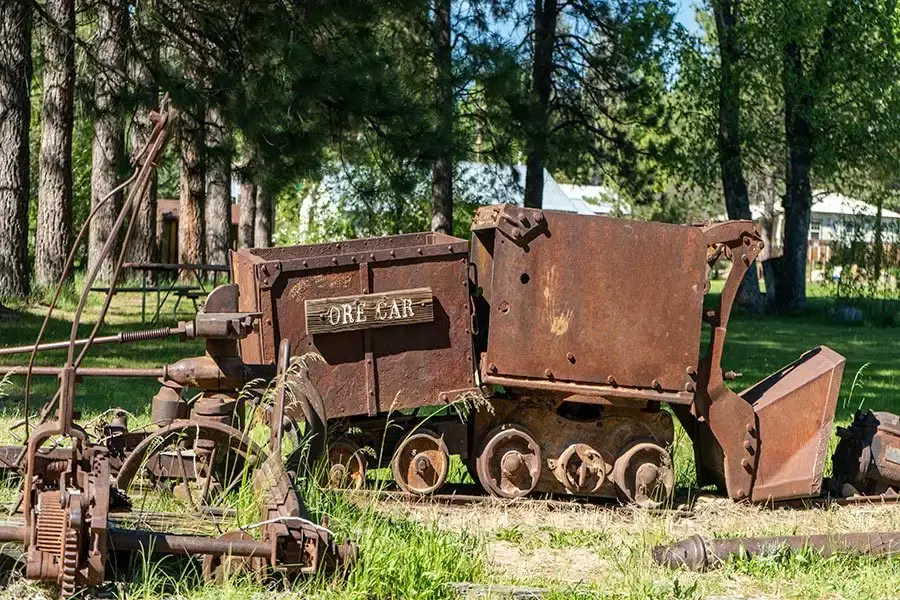
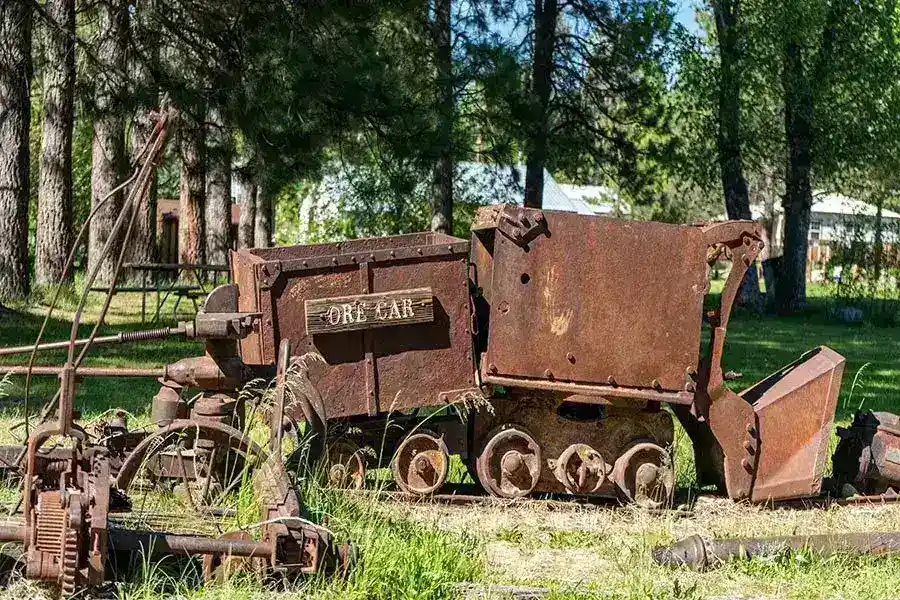
compressed images down significantly to be <500

diff --git a/chamber/discovery.html b/chamber/discovery.html
@@ -77,7 +77,7 @@
                 <picture class="discovery-img">
                     <source srcset="images/climate_500_544.webp" media="(max-width: 700px)">
                     <source srcset="images/climate_700_762.webp" media="(max-width: 910px)">
-                    <img src="images/climate.webp" alt="chart and table showing Idaho City climate information">
+                    <img src="images/climate_900_979.webp" alt="chart and table showing Idaho City climate information" loading="lazy">
                 </picture>
 
                 
@@ -101,37 +101,44 @@
             <picture class="discovery-img">
                 <source srcset="images/Miners-Exchange_500_333.webp" media="(max-width: 700px)">
                 <source srcset="images/Miners-Exchange_700_433.webp" media="(max-width: 910px)">
-                <img src="images/Miners-Exchange_900_600.webp" alt="Miners Exchange"  width="900" height="600">
+                <img src="images/Miners-Exchange_900_600.webp" alt="Miners Exchange"  width="900" height="600" loading="lazy">
+                <span>Miners Exchange</span>
             </picture>
             <picture class="discovery-img">
                 <source srcset="images/Ore-Car_500_333.webp" media="(max-width: 700px)">
                 <source srcset="images/Ore-Car_700_433.webp" media="(max-width: 910px)">
                 <img src="images/Ore-Car_900_600.webp" alt="Ore Car" width="900" height="600" loading="lazy">
+                <span>Ore Car for Mining</span>
             </picture>
             <picture class="discovery-img">
                 <source srcset="images/idaho-city-pioneer-cemetary_500_333.webp" media="(max-width: 700px)">
                 <source srcset="images/idaho-city-pioneer-cemetary_700_433.webp" media="(max-width: 910px)">
                 <img src="images/idaho-city-pioneer-cemetary_900_600.webp" alt="Pioneer Cemetery" width="900" height="600" loading="lazy">
+                <span>Pioneer Cemetery</span>
             </picture>
             <picture class="discovery-img">
                 <source srcset="images/merc-pic-2_500_333.webp" media="(max-width: 700px)">
                 <source srcset="images/merc-pic-2_700_433.webp" media="(max-width: 910px)">
                 <img src="images/merc-pic-2_900_600.webp" alt="Idaho City Merc" width="900" height="600" loading="lazy">
+                <span>Idaho City Mercentile</span>
             </picture>
-            <picture class="discovery-img">
+            <!--<picture class="discovery-img">
                 <source srcset="images/Idaho-City-Grocery_500_333.webp" media="(max-width: 700px)">
                 <source srcset="images/Idaho-City-Grocery_700_433.webp" media="(max-width: 910px)">
                 <img src="images/Idaho-City-Grocery_900_600.webp" alt="Idaho City Grocery" width="900" height="600" loading="lazy">
-            </picture>
+                <span>Idaho City Grocery Store</span>
+            </picture>-->
             <picture class="discovery-img">
                 <source srcset="images/Church_500_333.webp" media="(max-width: 700px)">
                 <source srcset="images/Church_700_433.webp" media="(max-width: 910px)">
                 <img src="images/Church_900_600.webp" alt="Idaho City Church" width="900" height="600" loading="lazy">
+                <span>Idaho City Catholic Church</span>
             </picture>
             <picture class="discovery-img">
                 <source srcset="images/Idaho-City-Vistors-Center_500_333.webp" media="(max-width: 700px)">
                 <source srcset="images/Idaho-City-Vistors-Center_700_433.webp" media="(max-width: 910px)">
-                <img src="images/Idaho-City-Vistors-Center_900_600.jpg" alt="Idaho City Grocery" width="900" height="600" loading="lazy">
+                <img src="images/Idaho-City-Vistors-Center_900_600.webp" alt="Idaho City Visitors Center" width="900" height="600" loading="lazy">
+                <span>Idaho City Visitors Center</span>
             </picture>
         </div>
         

diff --git a/chamber/styles/base.css b/chamber/styles/base.css
@@ -457,7 +457,7 @@ main.show{
 .discovery-main{
     display: grid;
     grid-template-columns: 1fr;
-    margin: 0 auto;
+    margin: 3rem auto;
     width: 90%;
     gap: 6rem;
     }
@@ -482,10 +482,18 @@ main.show{
     color: var(--themed-text);
 }
 
+.discovery-img{
+    display: flex;
+    flex-direction: column;
+}
 .discovery-img img{
     max-width: 100%;
     width: 100%;
     height: auto;
+}
+.discovery-img span{
+    text-align: left;
+    margin: .75rem 0;
 }
 .discovery-card h2{
     background-color: var(--primary-color);

diff --git a/chamber/styles/larger.css b/chamber/styles/larger.css
@@ -127,6 +127,9 @@
     .discovery-right-col{
         grid-column: 2/3;
     }
+    .discovery-img span{
+        text-align: right;
+    }
     .discovery-card{
         margin: 0;
     }

diff --git a/chamber/styles/medium.css b/chamber/styles/medium.css
@@ -113,6 +113,9 @@
     .discovery-right-col{
         grid-column: 2/3;
     }
+    .discovery-img span{
+        text-align: right;
+    }
     .discovery-card{
         margin: 0;
     }
